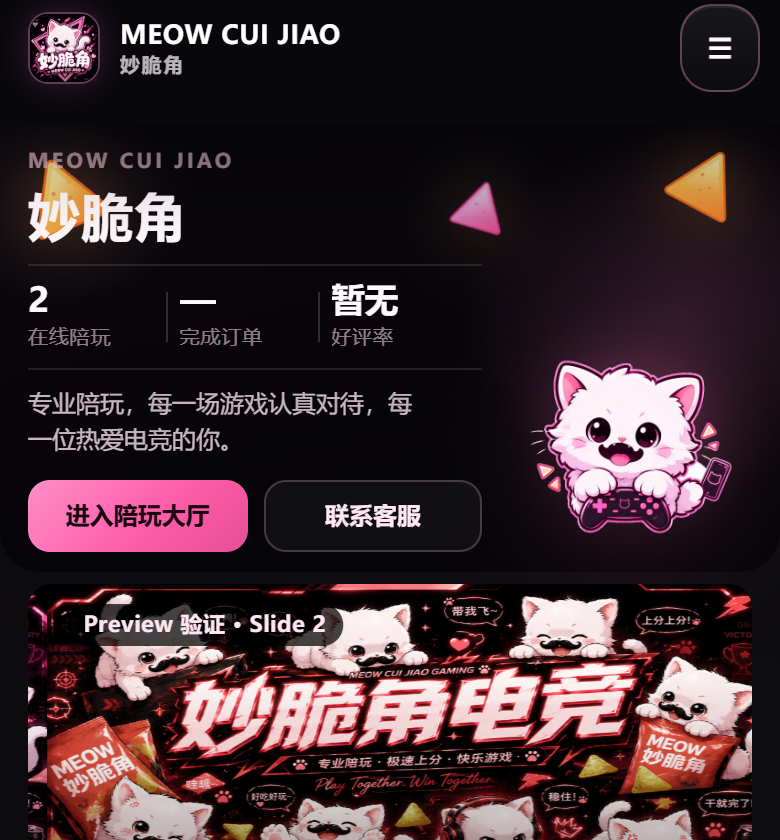
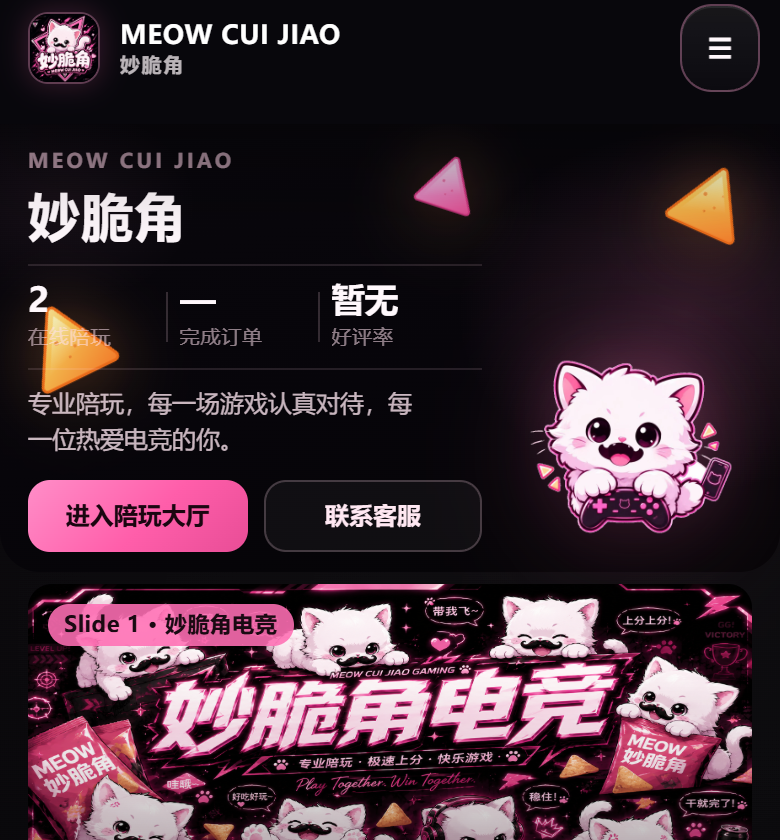
fix(ui): reposition mobile Hero snacks away from title

diff --git a/index.html b/index.html
@@ -3471,7 +3471,7 @@ html,body{width:100%!important;max-width:100%!important;overflow-x:hidden!import
   <link rel="stylesheet" href="src/gameplay-flow.css">
   <link rel="stylesheet" href="src/design-system.css">
   <link rel="stylesheet" href="src/home-banner.css?v=20260910carousel1">
-  <link rel="stylesheet" href="src/home-brand-hero.css?v=20260910snackFloat3">
+  <link rel="stylesheet" href="src/home-brand-hero.css?v=20260910snackFloat4">
   <link rel="stylesheet" href="src/home-banner-promo.css?v=20260910carousel1">
   <link rel="stylesheet" href="src/home-trust-stats.css?v=20260910appProto2">
   <link rel="stylesheet" href="src/home-announcements.css?v=20260910dataRestore1">
@@ -3483,7 +3483,7 @@ html,body{width:100%!important;max-width:100%!important;overflow-x:hidden!import
   <script type="module" src="src/role-gates.js?v=20260908antiBlank1"></script>
   <script type="module" src="src/boss-auth-session.js?v=20260811authUnify2"></script>
   <script type="module" src="src/forgot-password.js?v=20260907otpFocus1"></script>
-  <script type="module" src="src/avatar-fallback.js?v=20260910snackFloat3"></script>
+  <script type="module" src="src/avatar-fallback.js?v=20260910snackFloat4"></script>
   <script type="module" src="src/companion-media.js?v=20260802mediaSync"></script>
   <script type="module" src="src/launch-feature-freeze.js"></script>
   <script type="module" src="src/notify-system.js" defer></script>
@@ -3492,7 +3492,7 @@ html,body{width:100%!important;max-width:100%!important;overflow-x:hidden!import
   <link rel="stylesheet" href="src/boss-header.css?v=20260910appProto1">
   <link rel="stylesheet" href="/src/mcj-safe-area.css?v=20260802mobileP0c">
   <link rel="stylesheet" href="src/home-mobile.css?v=20260910appProto1">
-  <link rel="stylesheet" href="src/home-app-mobile.css?v=20260910snackFloat3">
+  <link rel="stylesheet" href="src/home-app-mobile.css?v=20260910snackFloat4">
   <link rel="stylesheet" href="src/ui-linglu-polish.css?v=20260910linglu1">
 </head>
 <body class="mcj-app-shell">

diff --git a/src/home-brand-hero.css b/src/home-brand-hero.css
@@ -460,25 +460,28 @@
 
   /* iPhone 14 / 390: 3 clearly visible snacks behind copy/mascot */
   .mcj-snack--1 {
-    top: 6% !important;
+    top: 42% !important;
     left: 2% !important;
-    width: 48px !important;
-    opacity: 0.92 !important;
+    width: 52px !important;
+    opacity: 0.95 !important;
+    transform: rotate(-26deg) !important;
   }
 
   .mcj-snack--2 {
-    top: 12% !important;
+    top: 8% !important;
     left: auto !important;
-    right: 34% !important;
-    width: 34px !important;
-    opacity: 0.82 !important;
+    right: 38% !important;
+    width: 36px !important;
+    opacity: 0.88 !important;
+    transform: rotate(18deg) !important;
   }
 
   .mcj-snack--3 {
-    top: 4% !important;
-    right: 4% !important;
-    width: 42px !important;
-    opacity: 0.9 !important;
+    top: 10% !important;
+    right: 3% !important;
+    width: 46px !important;
+    opacity: 0.94 !important;
+    transform: rotate(24deg) !important;
   }
 
   .mcj-snack--4,
